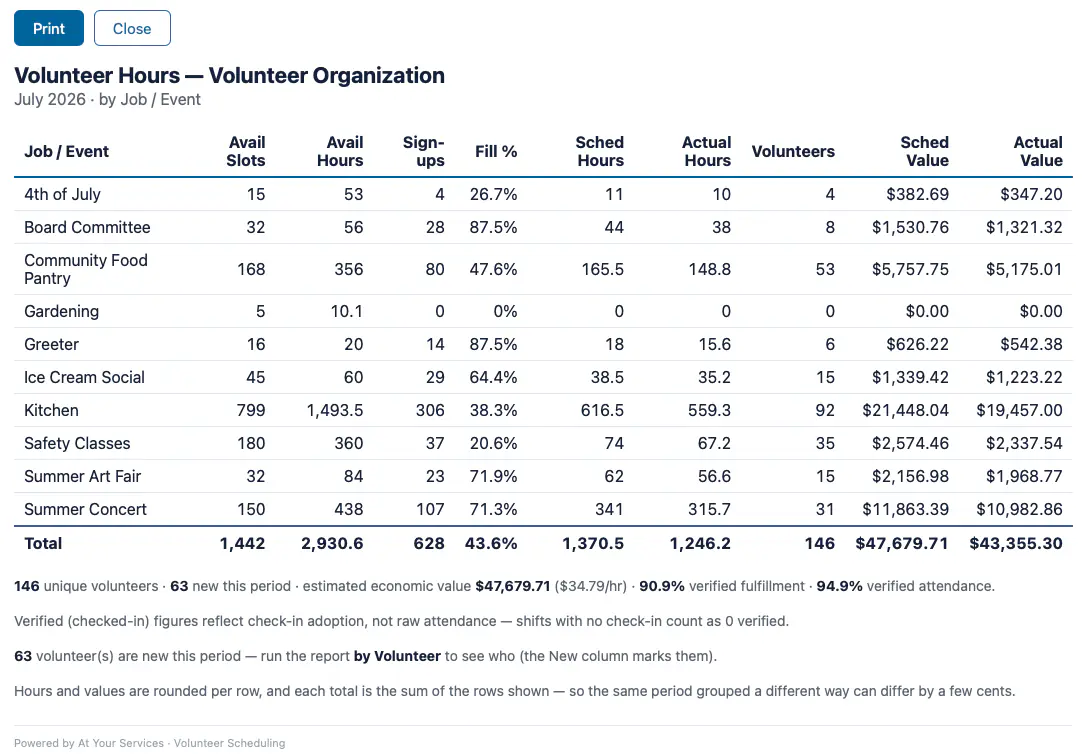
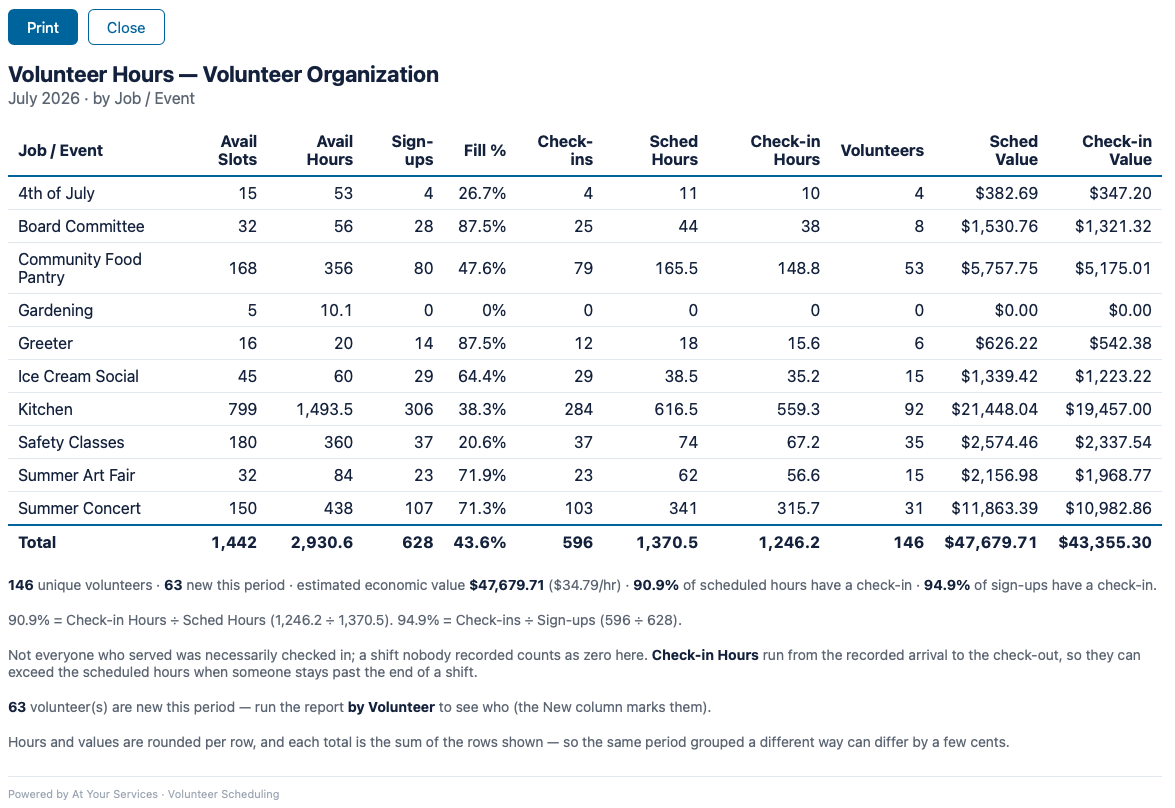
The pages still said "verified hours" after the app stopped
v2.11.0 retired that vocabulary from the hours report. The columns are now
Check-ins / Check-in Hours / Check-in Value, and the totals line says what
share of scheduled hours and of sign-ups have a check-in, where it used to
claim "verified fulfillment" and "verified attendance". The site was still
written in the old words, so a prospect who read the page and then opened the
live demo met two different products. Worse, "verified" now means something
else in the app - a verified email address, a verified audit chain - so the
word was not merely stale but pointing at the wrong thing.

Reworded across all three pages, the meta description and the JSON-LD. The
check-in anchor id is deliberately left as-is: it is a linked target that may
already be sitting in outreach email, and the heading text above it is what a
reader actually sees.

Two claims are new rather than reworded, both from v2.10.4 and v2.11.0.
Check-in hours run from the recorded arrival to the recorded departure, so
someone who stayed late is credited for it - which is also why check-in hours
can come out above the scheduled hours, a thing the page should explain
before a reader finds it in a report. And a stamp landing too far before the
shift is refused however it was made, while a staff-typed time far past the
end is refused too. Those two guards are not symmetric in the code - the
early floor covers every path, the late ceiling only the typed one - so the
[…]

diff --git a/products/scheduling.html b/products/scheduling.html
@@ -4,7 +4,7 @@
   <meta charset="utf-8" />
   <meta name="viewport" content="width=device-width, initial-scale=1" />
   <title>Volunteer Scheduling Application — At Your Services</title>
-  <meta name="description" content="Self-service volunteer scheduling: book and cancel your own spots, with capacity limits, day-of check-in for verified attendance, and volunteer-hours reports." />
+  <meta name="description" content="Self-service volunteer scheduling: book and cancel your own spots, with capacity limits, day-of check-in that records who actually came, and volunteer-hours reports." />
   <link rel="canonical" href="https://atyourservices.org/products/scheduling" />
   <meta name="theme-color" content="#00639e" />
 
@@ -40,7 +40,7 @@
     "applicationCategory": "BusinessApplication",
     "operatingSystem": "Web",
     "url": "https://schedule.atyourservices.org",
-    "description": "Self-service volunteer and staff scheduling on a shared calendar. Volunteers book and cancel their own spots from any phone, capacity limits prevent over- and under-staffing, and role-based access keeps volunteers seeing only their own signups while coordinators see the master roster. Volunteers can check in on the day (front-desk station or their own phone) for verified attendance, and reports cover volunteer hours and impact, verified hours with a fulfillment rate, and by-program capacity and fill rate. Coordinators can take a volunteer off a shift before it starts, with an email telling them, and can add a walk-in who turned up without signing up — added and checked in together. Administrators can call off a shift that already has volunteers on it with a reason emailed to everyone assigned, review a tamper-evident audit trail of irreversible admin actions, and delete a program without losing the hours and attendance already recorded against it.",
+    "description": "Self-service volunteer and staff scheduling on a shared calendar. Volunteers book and cancel their own spots from any phone, capacity limits prevent over- and under-staffing, and role-based access keeps volunteers seeing only their own signups while coordinators see the master roster. Volunteers can check in on the day (front-desk station or their own phone) to record who actually came, and reports cover volunteer hours and impact, check-in hours beside the scheduled ones, and by-program capacity and fill rate. Coordinators can take a volunteer off a shift before it starts, with an email telling them, and can add a walk-in who turned up without signing up — added and checked in together. Administrators can call off a shift that already has volunteers on it with a reason emailed to everyone assigned, review a tamper-evident audit trail of irreversible admin actions, and delete a program without losing the hours and attendance already recorded against it.",
     "image": "https://atyourservices.org/og-image.png",
     "offers": {
       "@type": "Offer",
@@ -83,7 +83,7 @@
     <div class="wrap">
       <a class="backlink" href="/">← Back to At Your Services</a>
       <h1>Volunteer Scheduling Application</h1>
-      <p class="subtitle">Self-service volunteer scheduling, verified attendance, and the hours report your board and funders ask for.</p>
+      <p class="subtitle">Self-service volunteer scheduling, day-of check-in, and the hours report your board and funders ask for.</p>
       <p class="lead-hook">
         <strong>Stop chasing volunteers and managing signups.</strong> Give your community a simple,
         self-service schedule they'll actually use — people claim and cancel their own spots, and the
@@ -108,7 +108,7 @@
           <li><a href="#roles">Roles</a></li>
           <li><a href="#locking-cancelling-occurrences">Locking &amp; cancelling occurrences</a></li>
           <li><a href="#changing-who-is-on-a-shift">Changing who is on a shift</a></li>
-          <li><a href="#volunteer-check-in-verified-attendance">Volunteer check-in &amp; verified attendance</a></li>
+          <li><a href="#volunteer-check-in-verified-attendance">Volunteer check-in &amp; attendance</a></li>
           <li><a href="#printable-check-in-sheets">Printable check-in sheets</a></li>
           <li><a href="#volunteer-hours-capacity-reports">Volunteer-hours &amp; capacity reports</a></li>
           <li><a href="#accountability-history">Accountability &amp; history</a></li>
@@ -159,9 +159,9 @@
         <li><strong>Call off a shift people already signed up for</strong> — cancel an occupied occurrence with a reason emailed to everyone on it, and see who could not be reached.</li>
         <li><strong>Change who is on a shift</strong> — take someone off before it starts, or add a walk-in on the day; either way the shift still goes ahead.</li>
         <li><strong>Flexible recurrence &amp; events</strong> — daily, weekday, day-of-week or monthly patterns, open-ended or fixed; dated multi-day events that can return next season.</li>
-        <li><strong>Volunteer check-in (verified attendance)</strong> — record who actually showed up, from a front-desk tablet, a volunteer's own phone, or the roster.</li>
+        <li><strong>Volunteer check-in</strong> — record who actually showed up, from a front-desk tablet, a volunteer's own phone, or the roster.</li>
         <li><strong>Printable check-in sheets</strong> — printable or CSV rosters for a day or a date range, with check-off boxes and write-in lines.</li>
-        <li><strong>Volunteer-hours &amp; impact reports</strong> — monthly, quarterly and annual totals by account, program or volunteer: <strong>scheduled and verified</strong> hours, and estimated economic value.</li>
+        <li><strong>Volunteer-hours &amp; impact reports</strong> — monthly, quarterly and annual totals by account, program or volunteer: hours <strong>scheduled and checked in</strong>, and estimated economic value.</li>
         <li><strong>Capacity &amp; fill-rate reports</strong> — available slots and hours beside sign-ups, with a fill percentage, so under-subscribed programs stand out for recruiting.</li>
         <li><strong>Confirmations &amp; reminders</strong> — optional sign-up confirmations and a reminder before each shift, each with an add-to-calendar file; volunteers set their own preference.</li>
         <li><strong>Easy sign-in</strong> — password and/or passwordless email ("magic link") sign-in, with optional self-registration.</li>
@@ -200,11 +200,11 @@
           <figcaption><strong>A week, at a glance</strong> — every shift shows how full it is and who is coming, so you know where you are short before the day arrives.</figcaption>
         </figure>
         <figure class="shot">
-          <img src="hours-report-preview.webp" width="1091" height="754"
-               alt="Volunteer hours report grouped by job and event, listing hours scheduled against hours actually worked, the dollar value of that time, and the percentage of each shift filled"
+          <img src="hours-report-preview.webp" width="1175" height="808"
+               alt="Volunteer hours report grouped by job and event, listing scheduled hours against check-in hours, the dollar value of that time, and the percentage of each shift filled"
                loading="lazy"
                onerror="this.closest('figure').style.display='none'" />
-          <figcaption><strong>The report at the end of it</strong> — hours scheduled against hours actually worked, the share of each shift you managed to fill, and how many unique volunteers it took. Print it, or export to CSV.</figcaption>
+          <figcaption><strong>The report at the end of it</strong> — hours scheduled against the hours people checked in for, the share of each shift you managed to fill, and how many unique volunteers it took. Print it, or export to CSV.</figcaption>
         </figure>
       </div>
       <p><small>Both screenshots come from the <a href="/demo">live demo</a> — sample data, not a real
@@ -274,8 +274,8 @@
             <li><strong>create its own Jobs/Events</strong> and their activities; a private one it creates is automatically assigned to it, so it can immediately manage that item's access (private and public creation are each independently configurable);</li>
             <li><strong>lock</strong> or <strong>cancel/restore</strong> individual activity occurrences on the private Jobs/Events it is assigned to (see below; each is configurable);</li>
             <li><strong>change who is on a shift</strong> — remove a person from an occurrence that has not started, or add a day-of walk-in, on the Jobs/Events within its reach (see below; each is configurable);</li>
-            <li><strong>record volunteer check-in</strong> — mark who actually showed up (or correct a check-in/out time, or swap in a same-account substitute) from the roster on the day — or backfill it from a paper sign-in sheet a day or two later — feeding verified hours into the reports;</li>
-            <li><strong>generate reports</strong> — printable or CSV check-in sheets, volunteer-hours &amp; impact totals (scheduled and verified), and by-Job/Event capacity &amp; fill rate (each configurable).</li>
+            <li><strong>record volunteer check-in</strong> — mark who actually showed up (or correct a check-in/out time, or swap in a same-account substitute) from the roster on the day — or backfill it from a paper sign-in sheet a day or two later — feeding check-in hours into the reports;</li>
+            <li><strong>generate reports</strong> — printable or CSV check-in sheets, volunteer-hours &amp; impact totals (scheduled hours beside check-in hours), and by-Job/Event capacity &amp; fill rate (each configurable).</li>
           </ul>
         </li>
         <li><strong>Administrator</strong> — full control over setup and people. An organization can have as many Administrator accounts as it needs, so top-level access (and a backup admin) is never stuck with one person. An Administrator:
@@ -284,7 +284,7 @@
             <li>creates Jobs/Events and their <strong>activity plans</strong> (the recurring templates that generate the calendar's activities);</li>
             <li>assigns Volunteers and Supervisors to private Jobs/Events;</li>
             <li>adds people to a Volunteer account;</li>
-            <li>generates the same <strong>reports</strong> as a Supervisor — check-in sheets, volunteer-hours &amp; impact totals (scheduled and verified), and by-Job/Event capacity &amp; fill rate (each configurable);</li>
+            <li>generates the same <strong>reports</strong> as a Supervisor — check-in sheets, volunteer-hours &amp; impact totals (scheduled hours beside check-in hours), and by-Job/Event capacity &amp; fill rate (each configurable);</li>
             <li>does not schedule people, but can open the calendar to <strong>record check-in</strong>, and to <strong>lock</strong> or <strong>cancel/restore</strong> individual activity occurrences on any Job/Event, public or private — including one that <strong>already has volunteers assigned</strong>, with a required reason emailed to all of them (see below; each is configurable);</li>
             <li><strong>removes a person</strong> from a shift that has not started, and <strong>adds a day-of walk-in</strong>, on any Job/Event;</li>
             <li>reads the <strong>audit trail</strong> of who performed the irreversible actions, and can re-verify the whole log on demand.</li>
@@ -368,20 +368,25 @@
       </p>
       </details>
 
-      <h2 id="volunteer-check-in-verified-attendance">Volunteer check-in &amp; verified attendance</h2>
-      <p>Know who actually turned up — not just who signed up. When enabled, volunteers can be checked in and out on the day, and those verified hours flow straight into the reports.</p>
+      <h2 id="volunteer-check-in-verified-attendance">Volunteer check-in &amp; attendance</h2>
+      <p>Know who actually turned up — not just who signed up. When enabled, volunteers can be checked in and out on the day, and those hours flow straight into the reports.</p>
       <details>
-        <summary>Three ways to check in, and how verified hours work</summary>
+        <summary>Three ways to check in, and how the hours are counted</summary>
       <ul>
         <li><strong>Front-desk check-in station</strong> — a dedicated kiosk account signed in on a shared tablet and left open at the entrance. A volunteer picks the Job/Event and types their own name to check in on arrival and out when they leave. Each button is a simple toggle, so a mistaken tap is undone by tapping again — no supervisor needed to fix it.</li>
         <li><strong>From a volunteer's own phone</strong> — a Volunteer checks their own people in and out for a current-day shift, from shortly before it starts.</li>
         <li><strong>Supervisor / Administrator</strong> — record or correct check-in and check-out times from the roster on the volunteer's behalf, or swap in a substitute from the same account. Attendance can also be <strong>entered after the fact</strong> from a paper sign-in sheet for the last few days — so a weekend's shifts can be logged on the next workday, not lost. The same panel carries <strong>+ Add someone who came</strong>, for a volunteer who turned up without having signed up at all.</li>
       </ul>
       <p>
-        Check-in captures the arrival time (a forgotten check-out defaults to the shift's scheduled end),
-        and the roll-up turns it into <strong>verified hours</strong> reported next to scheduled — with a
-        <strong>fulfillment rate</strong> (verified vs. scheduled). Each surface is independently
-        configurable, and the whole capability is off unless enabled.
+        Check-in records the arrival and the departure (a forgotten check-out defaults to the shift's
+        scheduled end), and the roll-up turns that into <strong>Check-in Hours</strong>, reported beside
+        the scheduled ones. They are measured from the recorded arrival to the recorded departure, so
+        somebody who came early or stayed late is credited for the time they actually gave — which is
+        also why check-in hours can come out <em>above</em> the scheduled hours for a shift. A stamp landing
+        more than a set margin <em>before</em> the shift is refused however it was made, and a
+        staff-typed time far past the end is refused too, so a mis-keyed hour cannot bank itself as
+        service. Each surface is independently configurable, and the whole capability is off unless
+        enabled.
       </p>
       </details>
 
@@ -418,7 +423,7 @@
         <summary>What the reports show</summary>
       <p>When enabled, a Supervisor or Administrator produces a summary over a <strong>month, quarter, year, or custom range</strong>, grouped by <strong>account</strong>, <strong>Job/Event</strong>, or <strong>volunteer</strong>:</p>
       <ul>
-        <li><strong>Hours &amp; impact</strong> — sign-ups, scheduled hours, unique and new volunteers, and estimated economic value (hours × an hourly rate). Where check-in is used, <strong>verified</strong> hours, verified value, and both a <strong>fulfillment&nbsp;%</strong> (hours) and an <strong>attendance&nbsp;%</strong> (a head-count show-up rate) appear alongside. Group <strong>by volunteer</strong> and a <strong>New</strong> column flags each person who first served in the period — so you can see exactly <em>who</em> to welcome, not just how many.</li>
+        <li><strong>Hours &amp; impact</strong> — sign-ups, scheduled hours, unique and new volunteers, and estimated economic value (hours × an hourly rate). Where check-in is used, a <strong>Check-ins</strong> count sits beside sign-ups and <strong>Check-in Hours</strong> and <strong>Check-in Value</strong> beside the scheduled figures, and the total line says what share got that far — what percentage of scheduled hours have a check-in, and what percentage of sign-ups do, each shown with the division behind it. It is a record of what was captured, not a show-up rate: a shift nobody remembered to record counts as zero. Group <strong>by volunteer</strong> and a <strong>New</strong> column flags each person who first served in the period — so you can see exactly <em>who</em> to welcome, not just how many.</li>
         <li><strong>Capacity &amp; fill rate</strong> (by Job/Event) — available slots and hours next to what was filled, with a per-program <strong>fill percentage</strong>. Programs that offered capacity but drew no sign-ups appear too, so unused capacity is visible for recruiting. A fill percentage can read <strong>above 100%</strong> where a walk-in was added to a shift that was already full; the report explains that in a footnote — on the printed sheet and in the CSV — whenever it happens.</li>
       </ul>
       <p>
@@ -505,7 +510,7 @@
             it against new assignments or <strong>Cancel/Restore</strong> that occurrence. Use
             <strong>Generate Report</strong> (top-right) for a printable or CSV check-in sheet, and
             <strong>Volunteer Hours</strong> for hours &amp; impact and by-Job/Event capacity &amp; fill-rate
-            reports (with verified hours where volunteers were checked in). Mike can also
+            reports (with the check-in columns where volunteers were checked in). Mike can also
             <strong>record check-in</strong> from an activity's roster on the day — and, on
             <strong>Board Committee</strong>, <strong>Remove person&hellip;</strong> from an upcoming
             occurrence or <strong>+ Add someone who came</strong> from within the check-in panel. (On the

diff --git a/index.html b/index.html
@@ -187,12 +187,12 @@
             <div class="feature-item">
               <span class="ico" aria-hidden="true">✅</span>
               <h4>Volunteer check-in</h4>
-              <p>Verify who actually showed up — a front-desk tablet or a volunteer's own phone — for verified hours and a fill rate.</p>
+              <p>Record who actually showed up — a front-desk tablet or a volunteer's own phone — for check-in hours and a fill rate.</p>
             </div>
             <div class="feature-item">
               <span class="ico" aria-hidden="true">📈</span>
               <h4>Hours &amp; impact reports</h4>
-              <p>Scheduled and verified hours, volunteers, economic value, and by-program capacity &amp; fill — by month, quarter, or year for grants and boards.</p>
+              <p>Scheduled and check-in hours, volunteers, economic value, and by-program capacity &amp; fill — by month, quarter, or year for grants and boards.</p>
             </div>
             <div class="feature-item">
               <span class="ico" aria-hidden="true">🔒</span>

diff --git a/free-volunteer-scheduling.html b/free-volunteer-scheduling.html
@@ -180,10 +180,10 @@
               <td class="us"><span class="yes">✓</span></td>
             </tr>
             <tr>
-              <th class="rowh">Verified attendance (day-of check-in)</th>
+              <th class="rowh">Day-of check-in (who actually came)</th>
               <td><span class="no">✗</span></td>
               <td class="maybe">rare</td>
-              <td class="us"><span class="yes">✓</span> front-desk tablet or phone → verified hours</td>
+              <td class="us"><span class="yes">✓</span> front-desk tablet or phone → check-in hours</td>
             </tr>
             <tr>
               <th class="rowh">Changing who is on a shift without erasing the record</th>
